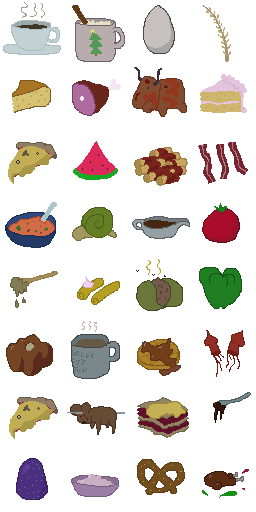
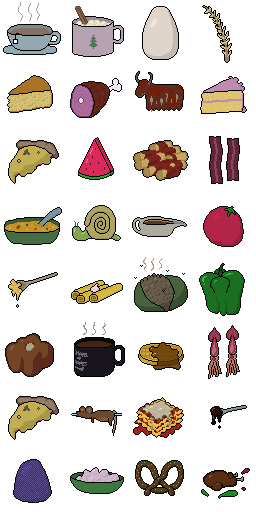
revised meal graphics, and new kitchens to include all meals

diff --git a/src/game/modal/modal_type_kitchen.c b/src/game/modal/modal_type_kitchen.c
@@ -151,7 +151,7 @@ static void _kitchen_update(struct modal *modal,double elapsed) {
  */
  
 static void _kitchen_render(struct modal *modal) {
-  graf_draw_rect(&g.graf,MODAL->dstx,MODAL->dsty,MODAL->dstw,MODAL->dsth,0x000000c0);
+  graf_draw_rect(&g.graf,MODAL->dstx,MODAL->dsty,MODAL->dstw,MODAL->dsth,0x403050c0);
 
   // (texid_text) contains the static text and options text. Everything but the background, cursor, and thumbnail.
   graf_draw_decal(&g.graf,MODAL->texid_text,MODAL->dstx,MODAL->dsty,0,0,MODAL->textw,MODAL->texth,0);
@@ -216,7 +216,7 @@ static void modal_kitchen_layout(struct modal *modal) {
   int promptw=font_render_string(image,w,h,stride,xmargin,ymargin,g.font,"Eat something to recover HP.",-1,0xffffffff);
   int clipw=xmargin+promptw+xmargin;
   if (clipw<w) w=clipw;
-  font_render_string(image,w,h,stride,xmargin+indent,ymargin+lineh,g.font,"Exit",-1,0xff0000ff);
+  font_render_string(image,w,h,stride,xmargin+indent,ymargin+lineh,g.font,"Exit",-1,0xff8080ff);
   
   // Write the name, score, and price for each entree.
   MODAL->tileid_by_pos[0]=0xff;

diff --git a/README.md b/README.md
@@ -28,7 +28,7 @@ Gives us about 57k words in a 400 kB resource.
 - - [ ] Cemetery: Grave robbing guidance ("All the later dates are in the back" etc)
 - [ ] Proper graphics.
 - - [x] Battle avatars
-- - [ ] Meals
+- - [x] Meals
 - - [ ] Map decoration
 - [ ] Refine maps.
 - - [ ] Arrange cellar such that you have to walk through the dark at least a little.
@@ -39,6 +39,7 @@ Gives us about 57k words in a 400 kB resource.
 - [ ] Egg: Web: Sometimes there's a haywire note as songs change.
 - - 2024-11-26 repairs in egg seem to have mitigated it, but i'm still hearing something off now and then.
 - - I think there's something wrong in native too. Hardly ever happens and not very noticeable when it does, but there can be a kathunk when a song begins.
+- - ...the native bit might be in my head.
 - [ ] Egg: web-run has an incorrect CSS size for the canvas
 - [ ] Modifying tool doesn't force a rebuild of custom resources.
 - [x] Make a group for "turn to face hero" and remove that logic from the sprite controllers, a bunch of them do it.
